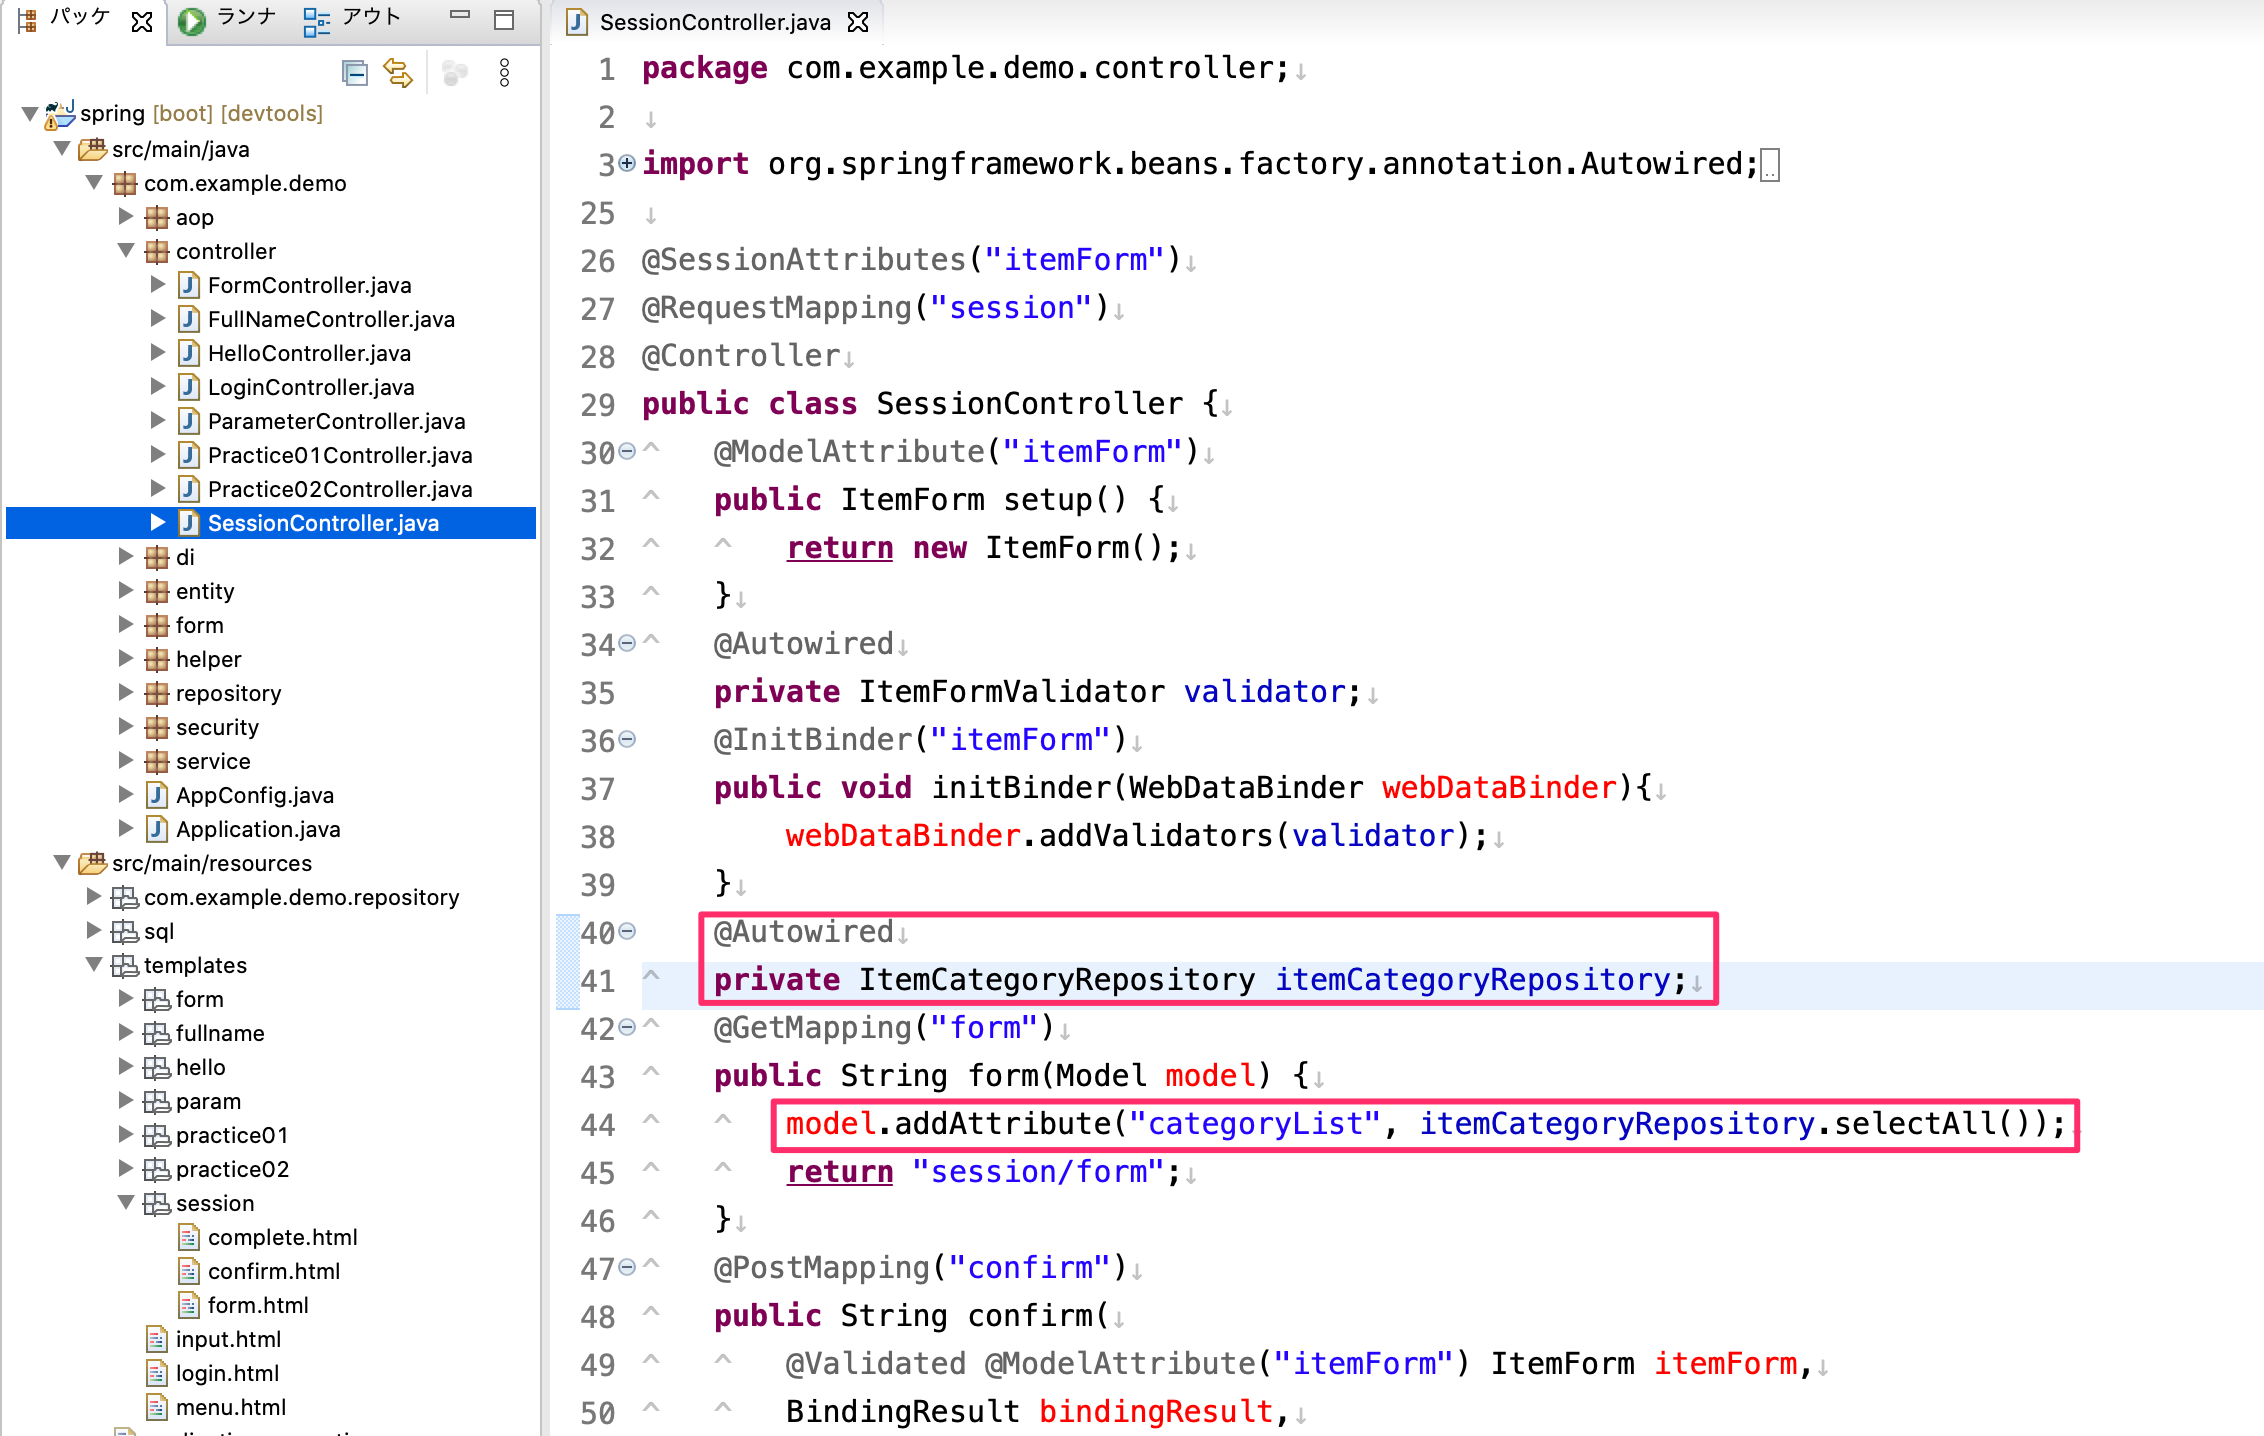
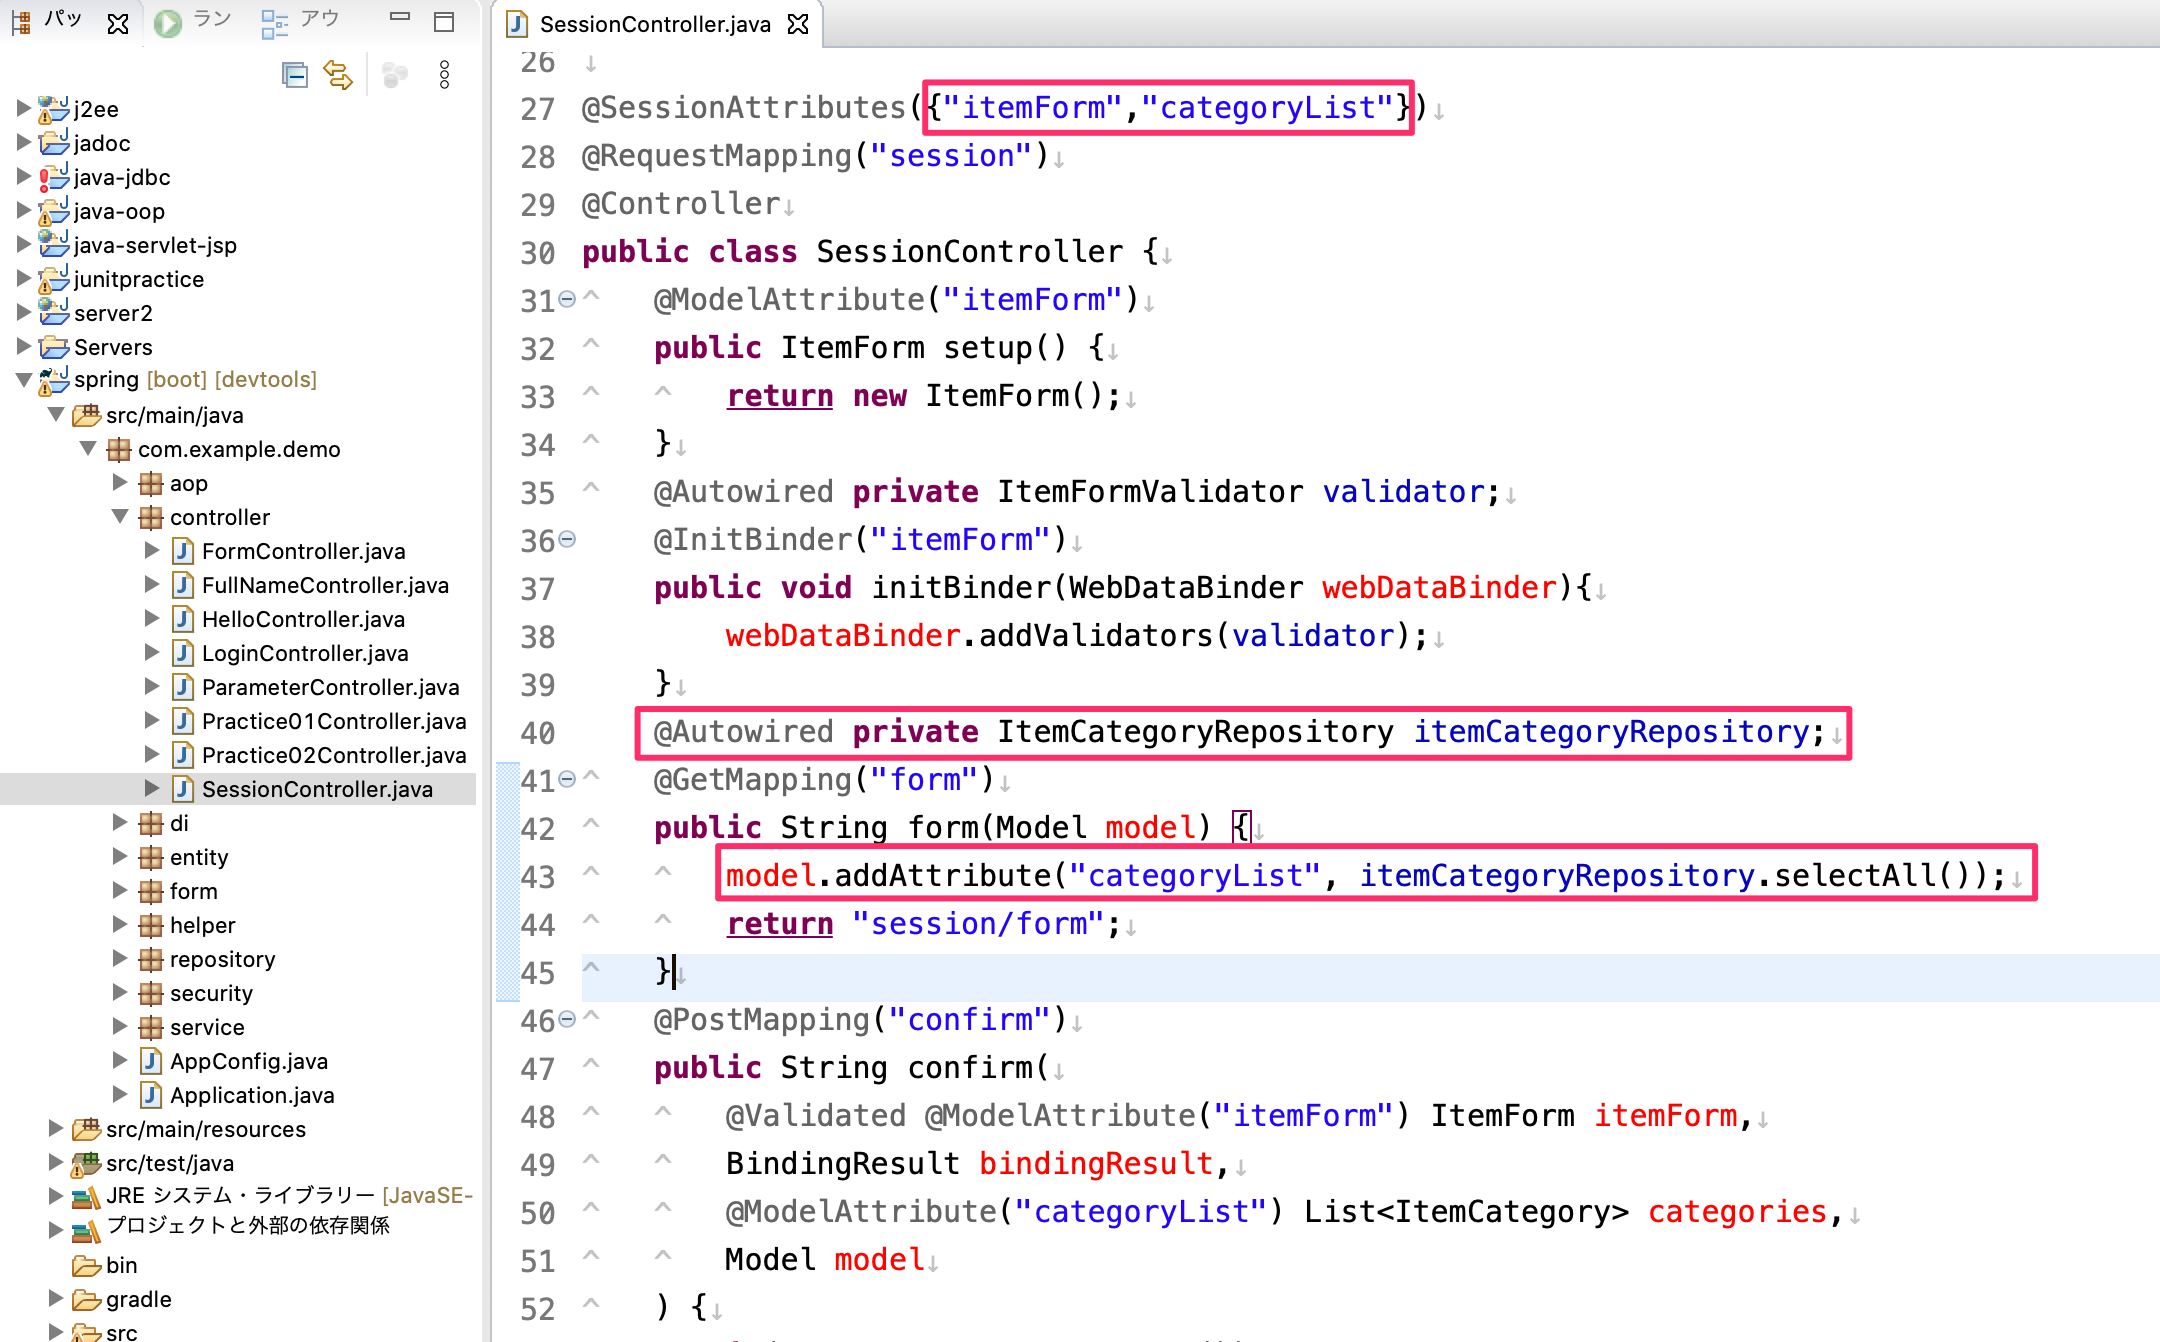
Spring MVC Serviceの実装及び画面登録機能実装ページとSpring SecurityページをREDMEからリンクするように修正

Changed region(s): [[0.0, 0.0, 1.0, 1.0], [0.5894, 0.9471, 0.8065, 0.9776], [0.6204, 0.3666, 0.6824, 0.3972]]

diff --git a/mvc-service.md b/mvc-service.md
@@ -1,34 +1,79 @@
 # Serviceの実装及び画面からの登録処理実装
 
+これからServiceオブジェクトを作成してSessionControllerに商品登録機能を実装してみます。
+
+## 処理の流れ
+
+下図のように商品入力・確認後の登録時（`execute()`）に`ItemHelper`と`ItemService`を呼び出してDBに対して登録処理を実装します。
+- `ItemHelper`にて`ItemForm`のフォームデータを`Item`のEntityにセットしなおしています。
+- `ItemService`の`addItem`メソッドに`Item`のEntityインスタンスをセットして`ItemRepository`を使ってDBに登録処理を行っています。
+
+![](img/springmvc-service-sequence.png)
+
 ## ItemFormの修正
+
+DBの`item`テーブルの仕様と合わすべく、`ItemForm`のフィールド名を修正、追加しています。
+- 新たに`categoryId`のフィールドを追加しています。
 
 ![](img/springmvc-service-01.png)
 
 ## 入力画面の修正
 
+`ItemForm`の修正に合わせて`ItemController`とViewを修正します。
+
 ### Controllerの修正
+
+`SessionController`の`form`メソッドを修正します。
+- 商品カテゴリリストのプルダウンメニューを表示させるために`ItemCategoryRepository`をDIでフィールドとして追加し、`selectAll`メソッドの結果を`Model`インターフェースの`addAttribute`メソッドにセットしています。
+- 商品カテゴリリストは確認画面で利用したいため`@SessionAttributes`にAttribute属性名を追加してセッションスコープにしています。
 
 ![](img/springmvc-service-02.png)
 
 ### Viewの修正
 
+Modelにセットした商品カテゴリのコレクションを`select`タグと`option`タグを使ってプルダウン表示します。
+- `select`タグには`th:field`にて`ItemForm`のカテゴリIDのフィールド名をしています。
+- `option`タグには`th:each`タグを使って商品カテゴリのコレクションを繰り返し処理しています。
+  - `th:value`属性の値はカテゴリIDをセットしています。
+  - `th:selected`属性には`option`タグに`selected`属性を付与する条件を指定しています。
+    - `ItemForm`にセットしたカテゴリIDと同じ番号の`option`タグに対して`selected`属性が付与され、確認画面から戻った場合に選択した項目が初期表示に選択されている状態になります。
+  - `th:inline`属性を`text`にすることにより、`option`タグの中の箇所に`[[${category.name}]]`の形で画面表示させることができます。
+
 ![](img/springmvc-service-03.png)
 
 ### 入力画面の確認
+
+それではこの状態で一度画面を確認してみます。
+`http://localhost:8080/session/form`にアクセスすると商品カテゴリテーブルの中にあるデータがプルダウン項目として選択できることを確認してください。
 
 ![](img/springmvc-service-04.png)
 
 ## 確認画面の修正
 
+次に確認画面を修正していきます。
+
 ### Controllerの修正
+
+`confirm`メソッドを修正します。
+- `Model`インターフェースの引数を追加します。
+  - 引数の`addAttribute`メソッドで選択したカテゴリ情報を`Model`インターフェースの引数にセットしています。
+    - 【注意】下図の例ではAttributeに選択したカテゴリをセットするときにセッションスコープにした商品カテゴリリストからラムダ式を使って選択したカテゴリをフィルタしてセットしています。
+      - もしラムダ式がわからない場合は選択した商品カテゴリをfor文、if文をして抽出してAttributeにセットしてください。
 
 ![](img/springmvc-service-05.png)
 
 ### Viewの修正
 
+コントローラーの修正に合わせてView（`confirm.html`）を修正します。
+- `ItemForm`の商品名、価格のフィールド名が修正されたのでそれに合わせて修正しています。
+- 商品カテゴリを追加して選択した商品カテゴリのカテゴリ名を出力するようにしています。
+
 ![](img/springmvc-service-06.png)
 
 ### 確認画面の確認
+
+それでは入力画面から確認画面へ行き、商品カテゴリが表示されていることを確認してください。
+- 「戻る」リンクをクリックして入力した内容が保持されていることも確認してください。
 
 ![](img/springmvc-service-13.png)
 
@@ -36,30 +81,58 @@
 
 ### Serviceインターフェースの実装
 
+`SessionController`からDIされる想定のServiceのインターフェースを作成します。
+`com.example.demo.service`パッケージに`ItemService.java`のインターフェースを作成します。
+- 抽象メソッドとしては`addItem`にして`Item`のEntityを引数として受け取れるようにします。
+
 ![](img/springmvc-service-07.png)
 
 ### Serviceインターフェース実装クラスの実装
+
+`ItemService`インターフェースを実装した`ItemServiceImpl.java`クラスを`com.example.demo.service`パッケージに作成します。
+- このクラスにて`ItemRepository`インターフェースのフィールドを用意してDIします。
+- `addItem`メソッドをオーバーライドして`Item`のEntity引数を使って`ItemRepository`の`insert`メソッドの引数にセットしてDBへINSERT処理を行います。
 
 ![](img/springmvc-service-08.png)
 
 ### Helperクラスの作成
 
+ControllerにてServiceのメソッドの引数にEntityを渡すために、Helperクラスを作成してFormインスタンスからEntityインスタンスに変換する処理を定義します。
+- `com.example.demo.form`パッケージに`ItemHelper`クラスを作成します。
+  - `convert`のスタティックメソッドを定義して引数には`ItemForm`を受け取れるようにし、`Item`のEntityインスタンスを生成して`ItemForm`の値を`Item`インスタンスに入れ直して戻す処理を入れます。
+
 ![](img/springmvc-service-09.png)
 
 ### Controllerの修正
+
+それではServiceをControllerから呼び出して商品登録機能を実装します。
+- `@Autowired`で`ItemService`インターフェースのフィールドを定義してDIします。
+- `ItemService`の`addItem`メソッドを呼び出しその中には`ItemForm`から`Item`に変換したものを引数にセットします。
 
 ![](img/springmvc-service-10.png)
 
 ### 完了画面の修正
 
+完了画面の修正を行います。Frashスコープで送られる`ItemForm`のフィールド名が修正されたので、それに合わせて`complete.html`の`th:text`属性を修正します。
+
 ![](img/springmvc-service-11.png)
 
 ## 動作確認
 
+それでは入力画面から確認画面に行き、完了画面に遷移する事を確認してください。
+
+_入力画面_
+
 ![](img/springmvc-service-12.png)
+
+_確認画面_
 
 ![](img/springmvc-service-13.png)
 
+_完了画面_
+
 ![](img/springmvc-service-14.png)
+
+完了画面に遷移したらDBに入力した内容が登録している事を確認してください。
 
 ![](img/springmvc-service-15.png)

diff --git a/README.md b/README.md
@@ -85,3 +85,8 @@
 - [セッション（1つのコントローラー）の利用の確認](mvc-session.md)
 - [単項目バリデーションの実装](mvc-validate.md)
 - [相関バリデーションの実装](mvc-validate-multi.md)
+- [Serviceの実装及び画面からの登録処理実装](mvc-service.md)
+
+### Spring Security
+
+- [Spring Securityの認証・認可の動作確認](spring-security.md)
